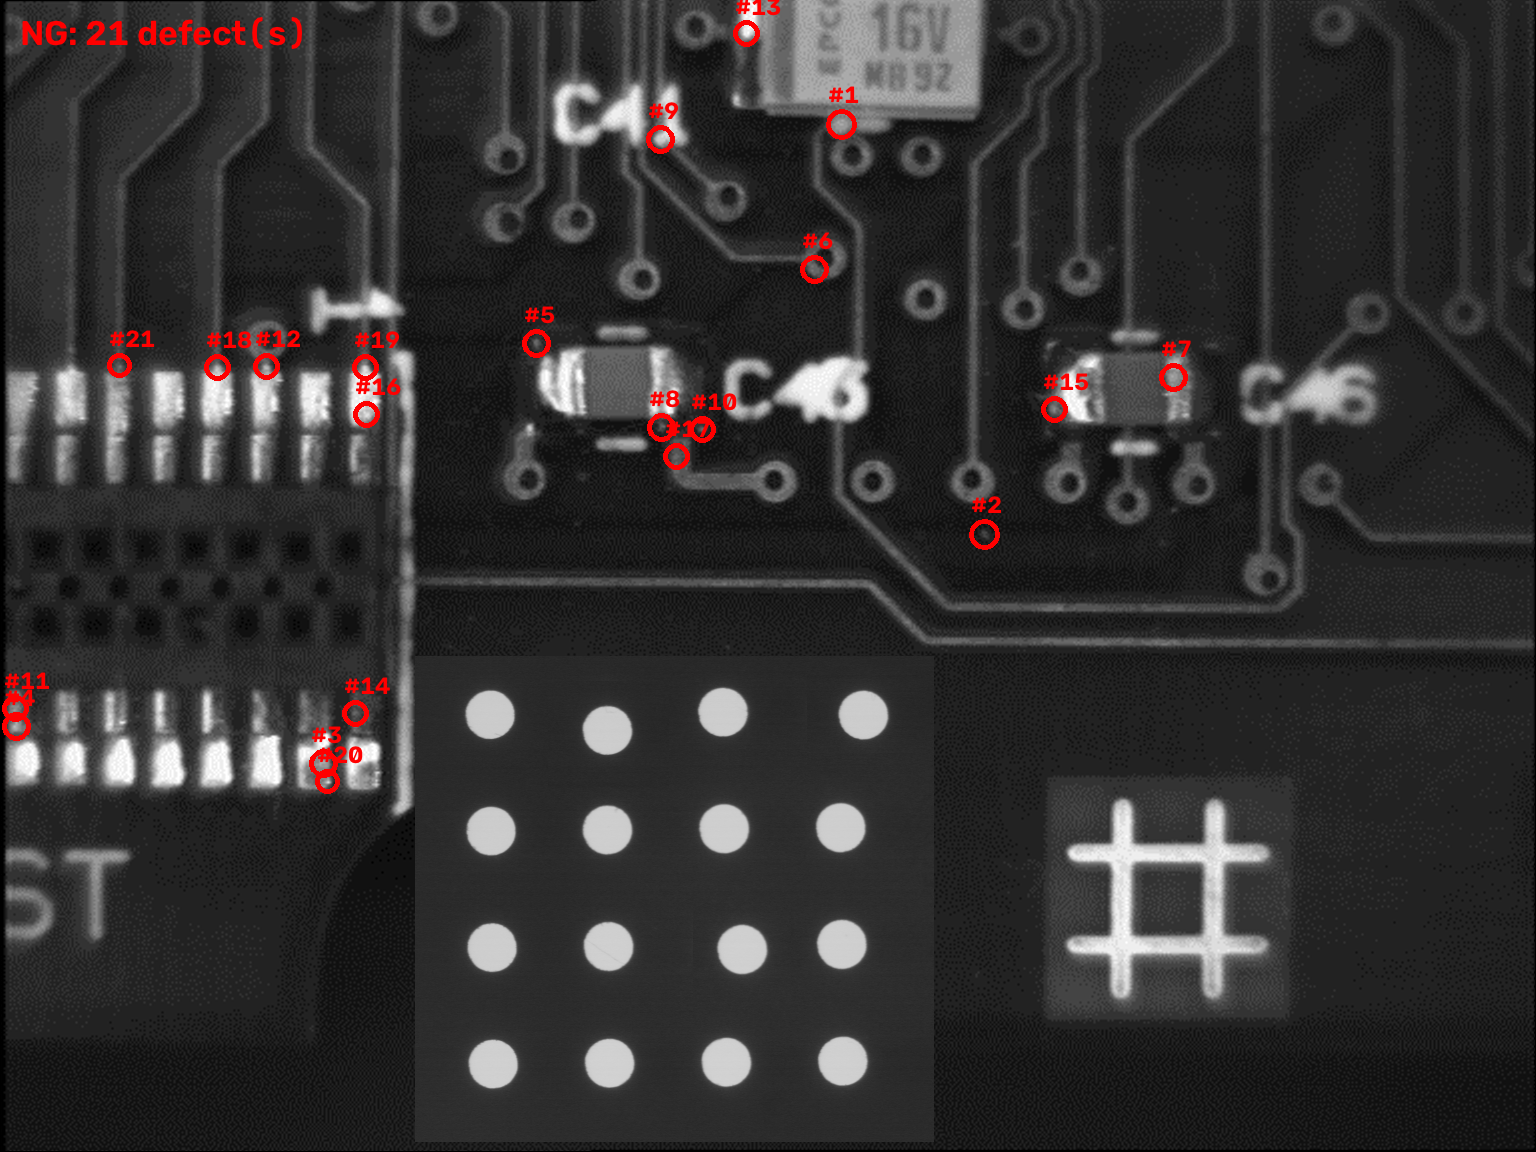
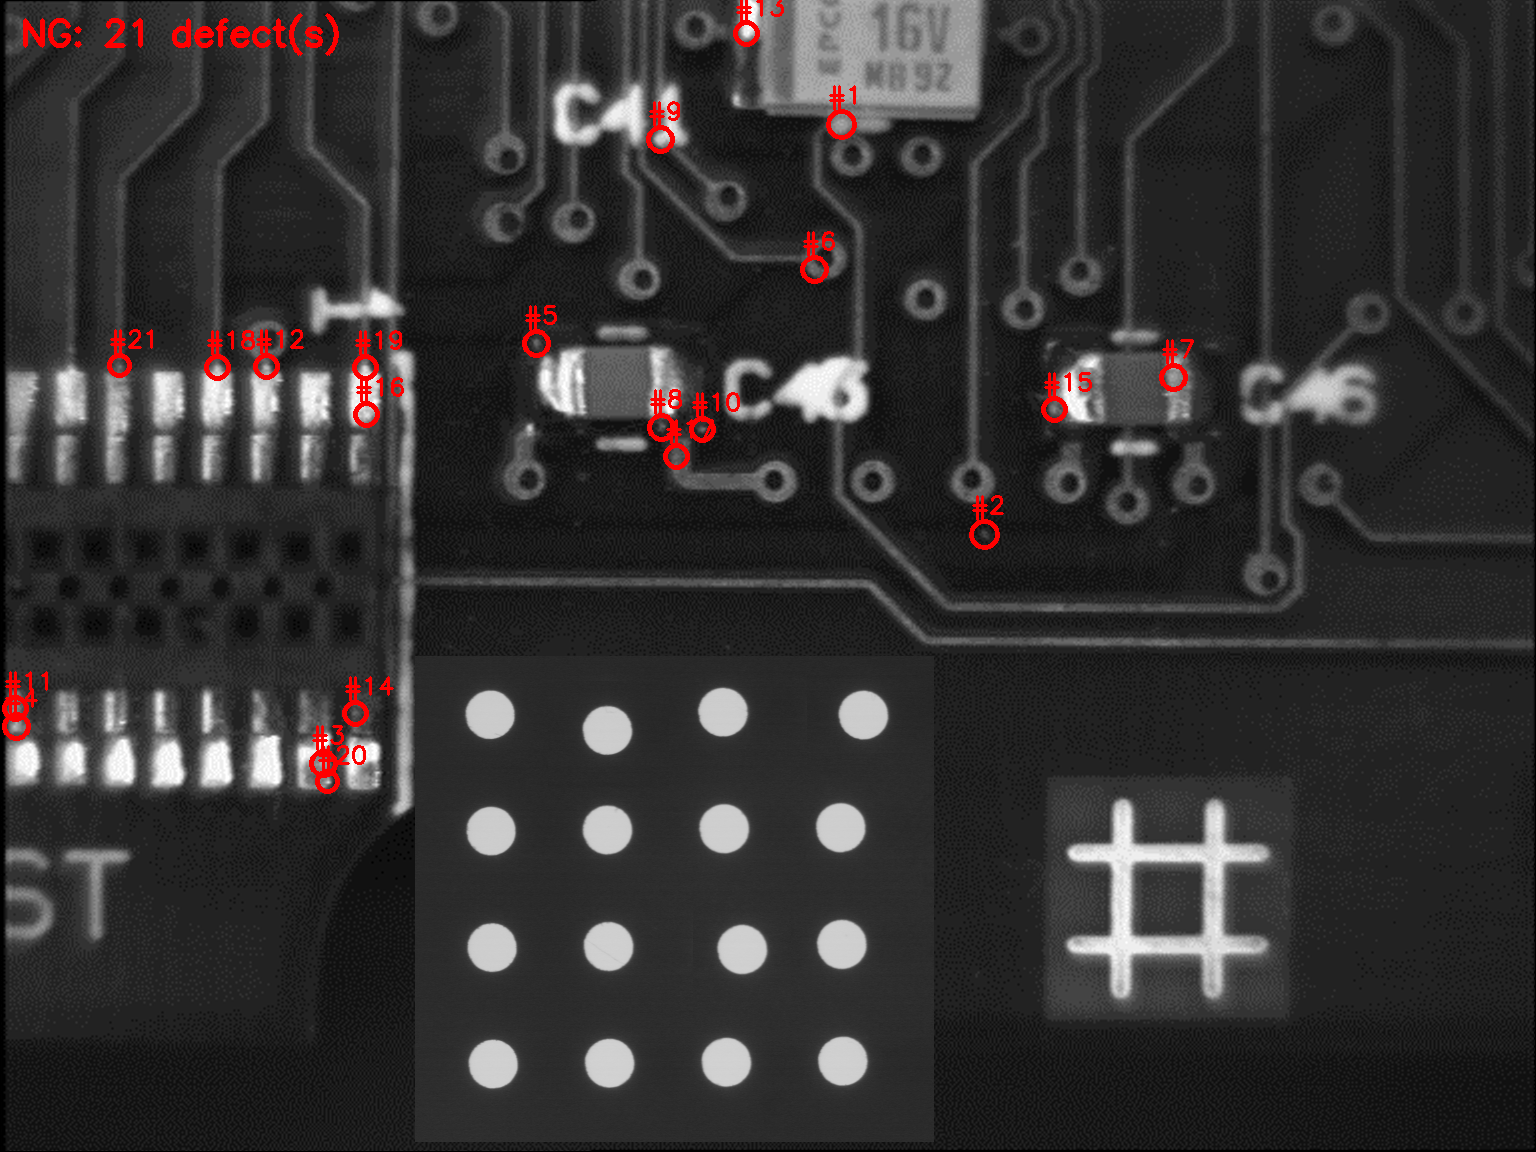
ai_generated_loc: 0

diff --git a/output/NG_1_report.md b/output/NG_1_report.md
@@ -1,6 +1,6 @@
 # 瑕疵檢測報告：NG_1.bmp
 
-- 執行時間：2026-10-21 00:11:16
+- 執行時間：2026-10-21 00:14:30
 - 檢測模式：無參考模式（頂帽運算 + SimpleBlobDetector）
 - 待檢影像：`D:\GitHub\MBA_Lab1\Imgs\Final_Images\NG_1.bmp`
 - 影像尺寸：1536 x 1152
